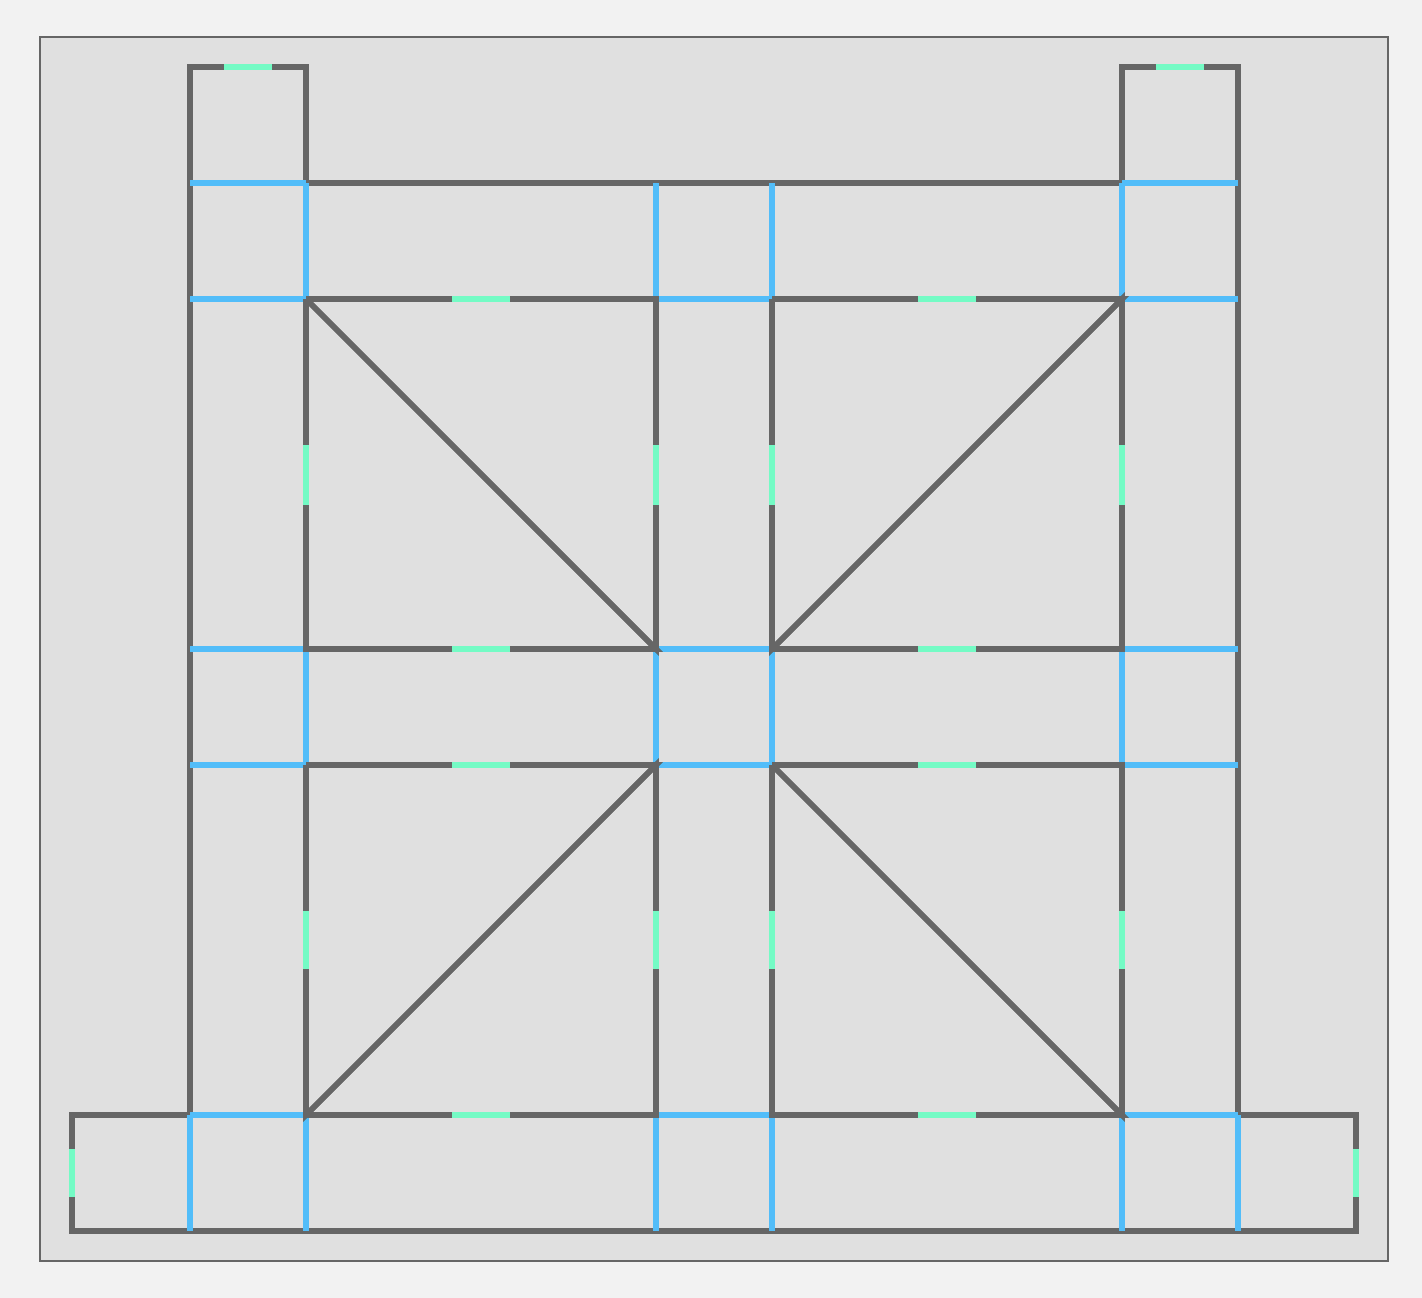
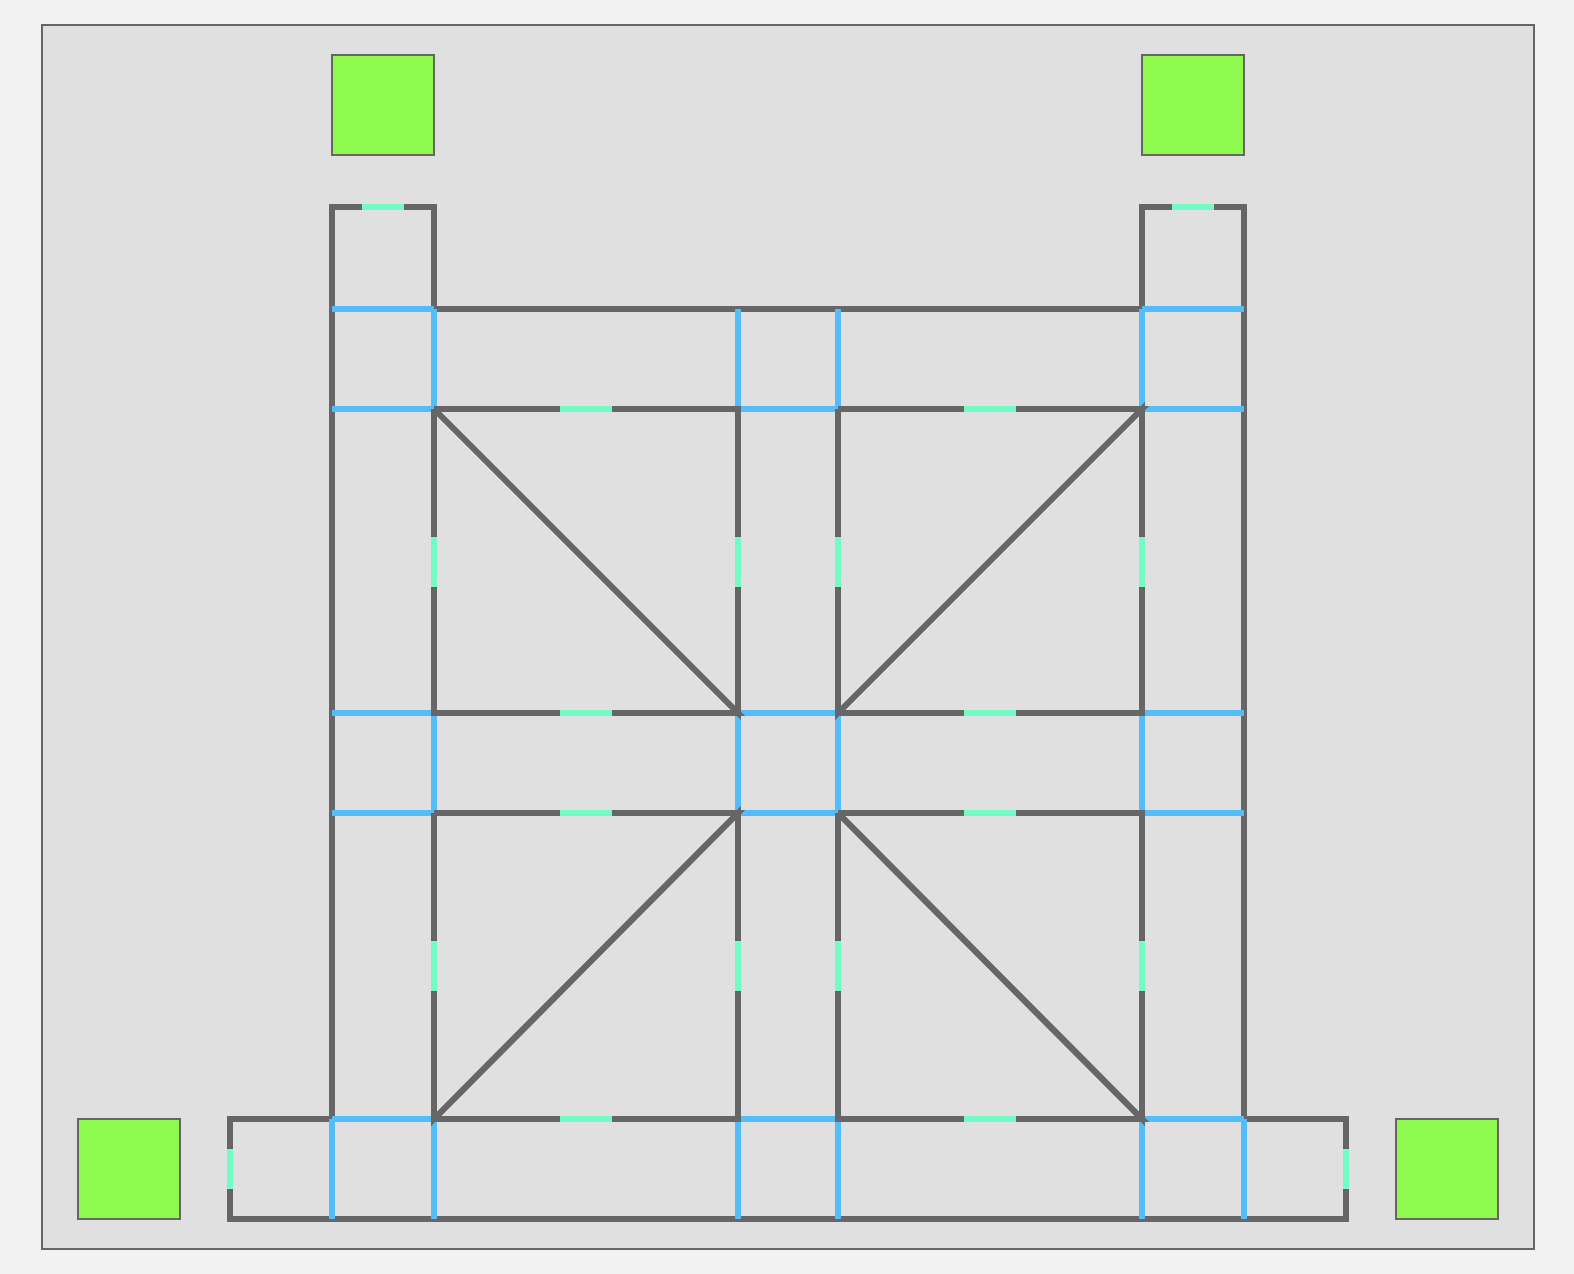
update README.md

diff --git a/README.md b/README.md
@@ -12,13 +12,14 @@
 ![map select](readme_imgs/map_select.png)
 其中仿真工程名从 *simulations* 目录中读取，显示类型可以选择是以3d模式还是2d模式显示，点击开始仿真即可载入地图
 
-地图支持 *Obstacle*、*Wall*、*transition*、*crossing* 的显示，其中 *Obstacle* 默认是闭合多边形，其他的都不闭合，另外3个的不同在于显示的颜色，*Wall* 不允许行人通过，*crossing* 为 *subroom* 之间的门，为显示为浅蓝色， *transition* 为 *room* 之间及 *room* 与外界的门，显示为绿色，下面是几个例子：
+地图支持 *Obstacle*、*Wall*、*transition*、*crossing* 的显示，其中 *Obstacle* 默认是闭合多边形，其他的都不闭合，另外3个的不同在于显示的颜色，*Wall* 不允许行人通过，*crossing* 为 *subroom* 之间的门，为显示为浅蓝色的实线， *transition* 为 *room* 之间及 *room* 与外界的门，显示为绿色的实线；goal 和障碍物一样时实体，其中final goal为绿色，middle goal 为浅蓝色。下面是几个例子：
 
 - moscawa 3D
 ![moscawa 3D](readme_imgs/moscawa-3d.png)
 - moscawa 2D
 ![moscawa 2D](readme_imgs/moscawa-2d.png)
-- ship_msw 3d
-![ship_msw 3D](readme_imgs/ship_msw-3D.png)
-- ship_msw 2d
-![ship_msw 2D](readme_imgs/ship_msw-2D.png)
+- library 3D
+![library 3D](readme_imgs/libreCad-3d.png)
+- library 2D
+![library 2D](readme_imgs/libreCad-2d.png)
+
